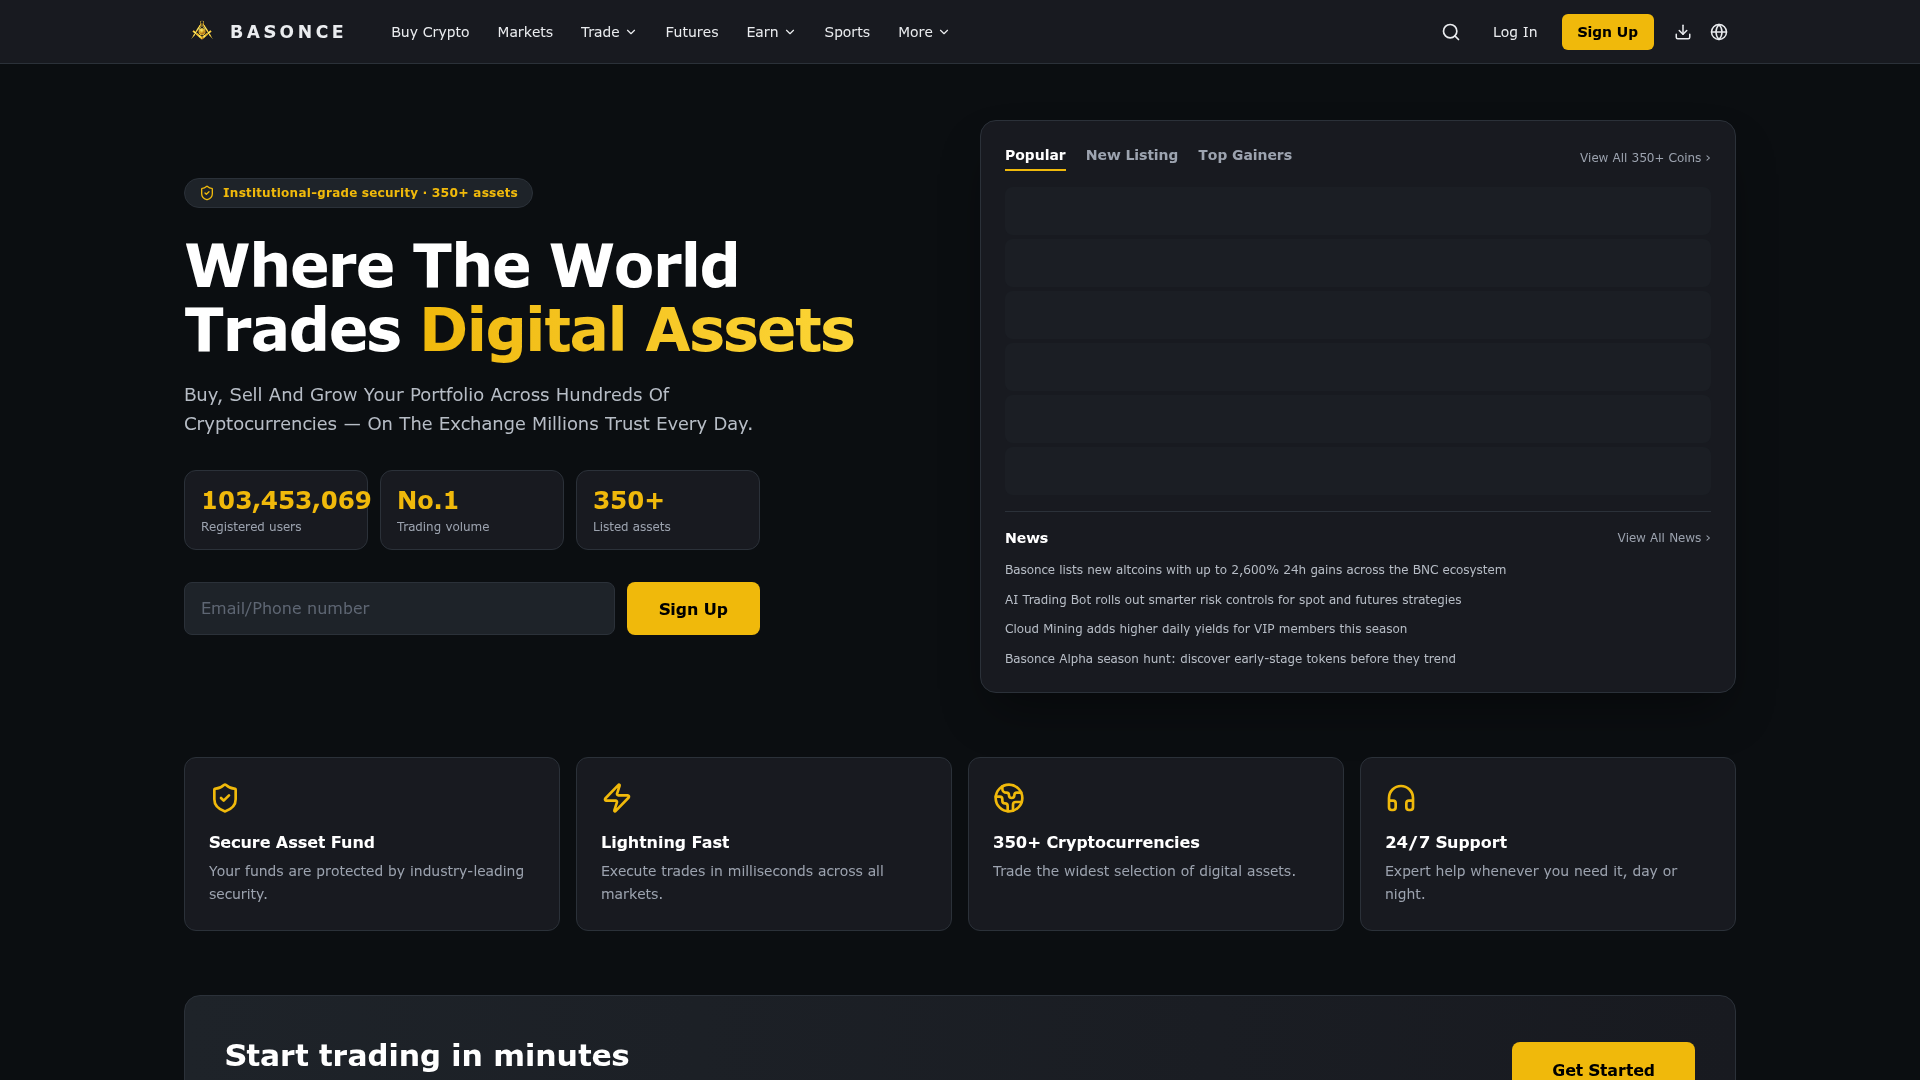
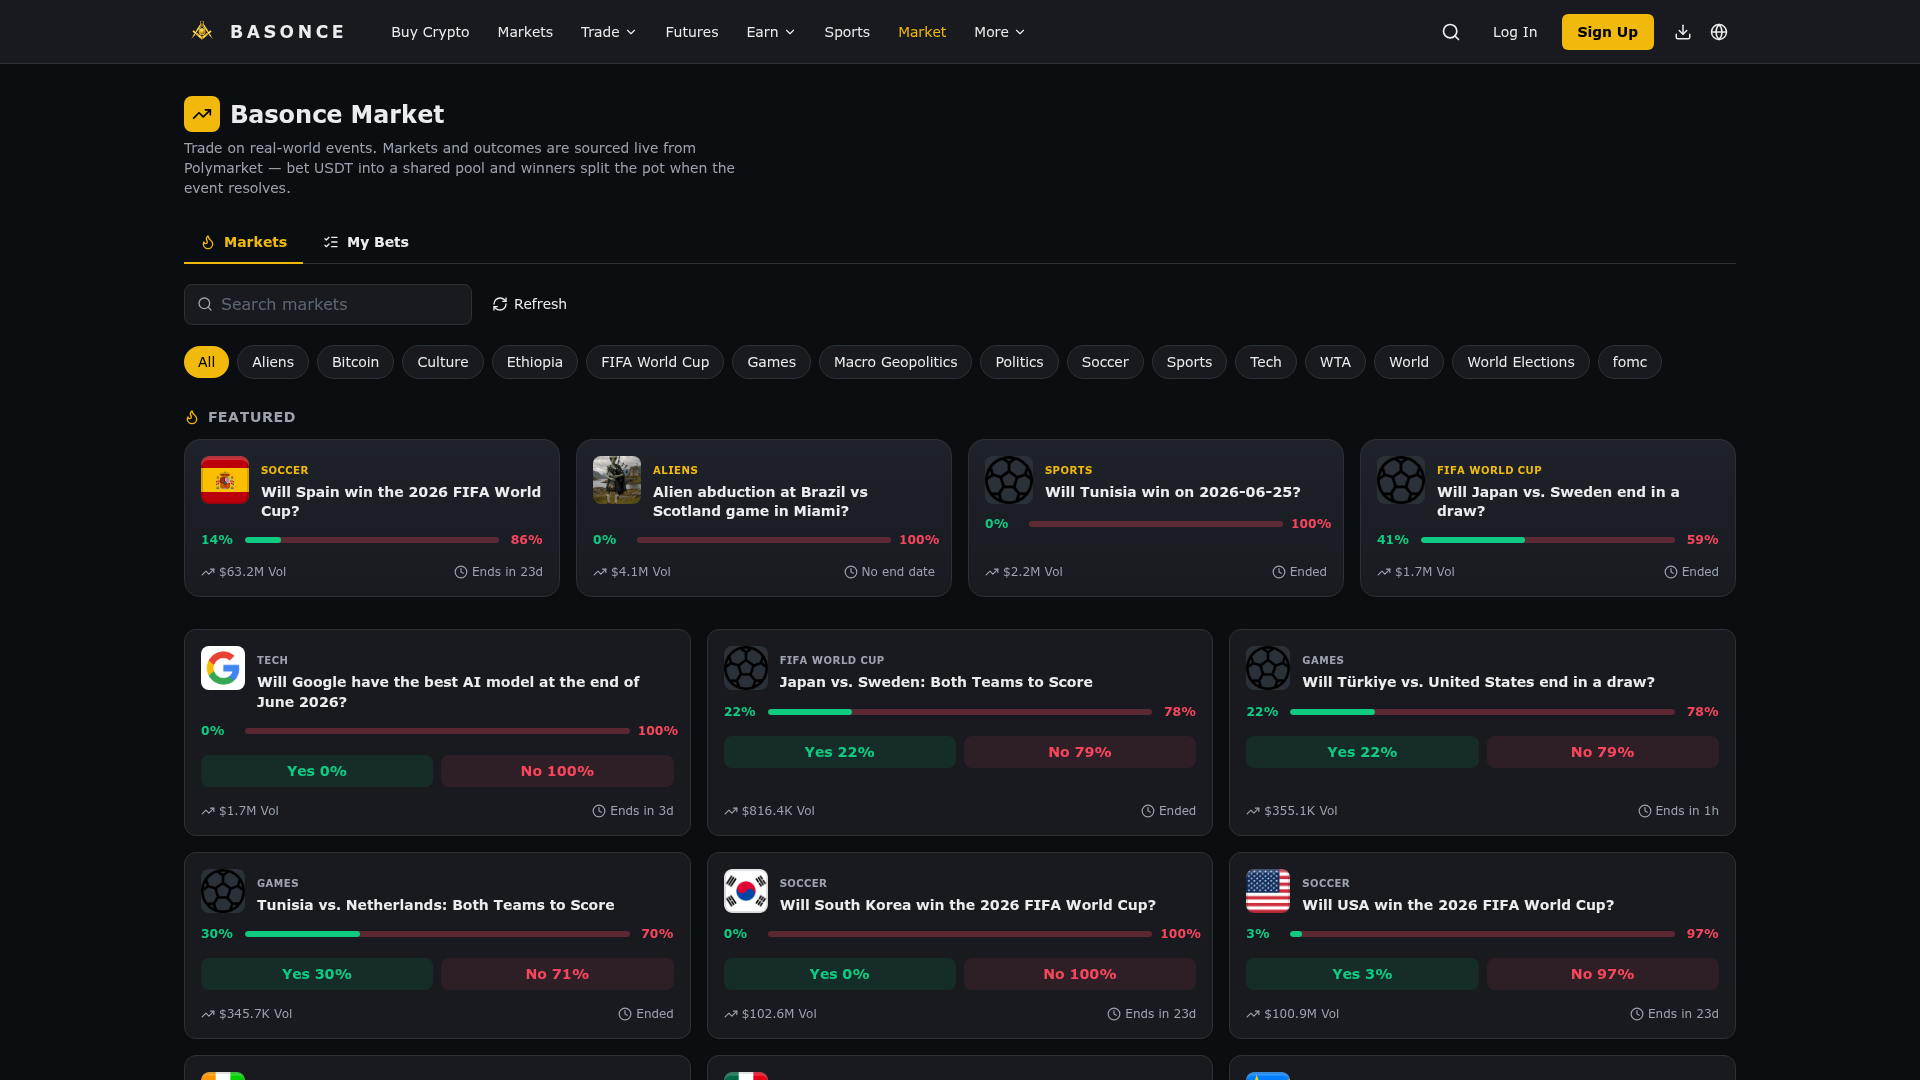
Update market tab name to Basonce Markets
Renames the 'Market' navigation tab to 'Basonce Markets' in the English translations file.

Replit-Commit-Author: Agent
Replit-Commit-Session-Id: 708acd5a-6600-4e4f-8164-9182d4e9beba
Replit-Commit-Checkpoint-Type: full_checkpoint
Replit-Commit-Event-Id: 0d238937-ddf7-48b8-98c6-c8fce7fa86d2
Replit-Commit-Screenshot-Url: https://storage.googleapis.com/screenshot-production-us-central1/d393d7f4-3e88-49a4-8024-5c41a1682b42/708acd5a-6600-4e4f-8164-9182d4e9beba/vKzGPCQ
Replit-Helium-Checkpoint-Created: true

diff --git a/artifacts/kite-exchange/src/desktop/i18n/translations.ts b/artifacts/kite-exchange/src/desktop/i18n/translations.ts
@@ -32,7 +32,7 @@ export type TKey =
 type Dict = Partial<Record<TKey, string>>;
 
 const en: Record<TKey, string> = {
-  buyCrypto: 'Buy Crypto', markets: 'Markets', trade: 'Trade', futures: 'Futures', earn: 'Earn', sports: 'Sports', market: 'Market',
+  buyCrypto: 'Buy Crypto', markets: 'Markets', trade: 'Trade', futures: 'Futures', earn: 'Earn', sports: 'Sports', market: 'Basonce Markets',
   spot: 'Spot', aiTradingBot: 'AI Trading Bot', mining: 'Mining', aiBot: 'AI Bot',
   login: 'Log In', signup: 'Sign Up', deposit: 'Deposit',
   searchPlaceholder: 'Search coin or pair', noResults: 'No results', language: 'Language', getApp: 'Get the app', scanToTrade: 'Scan to trade on mobile',